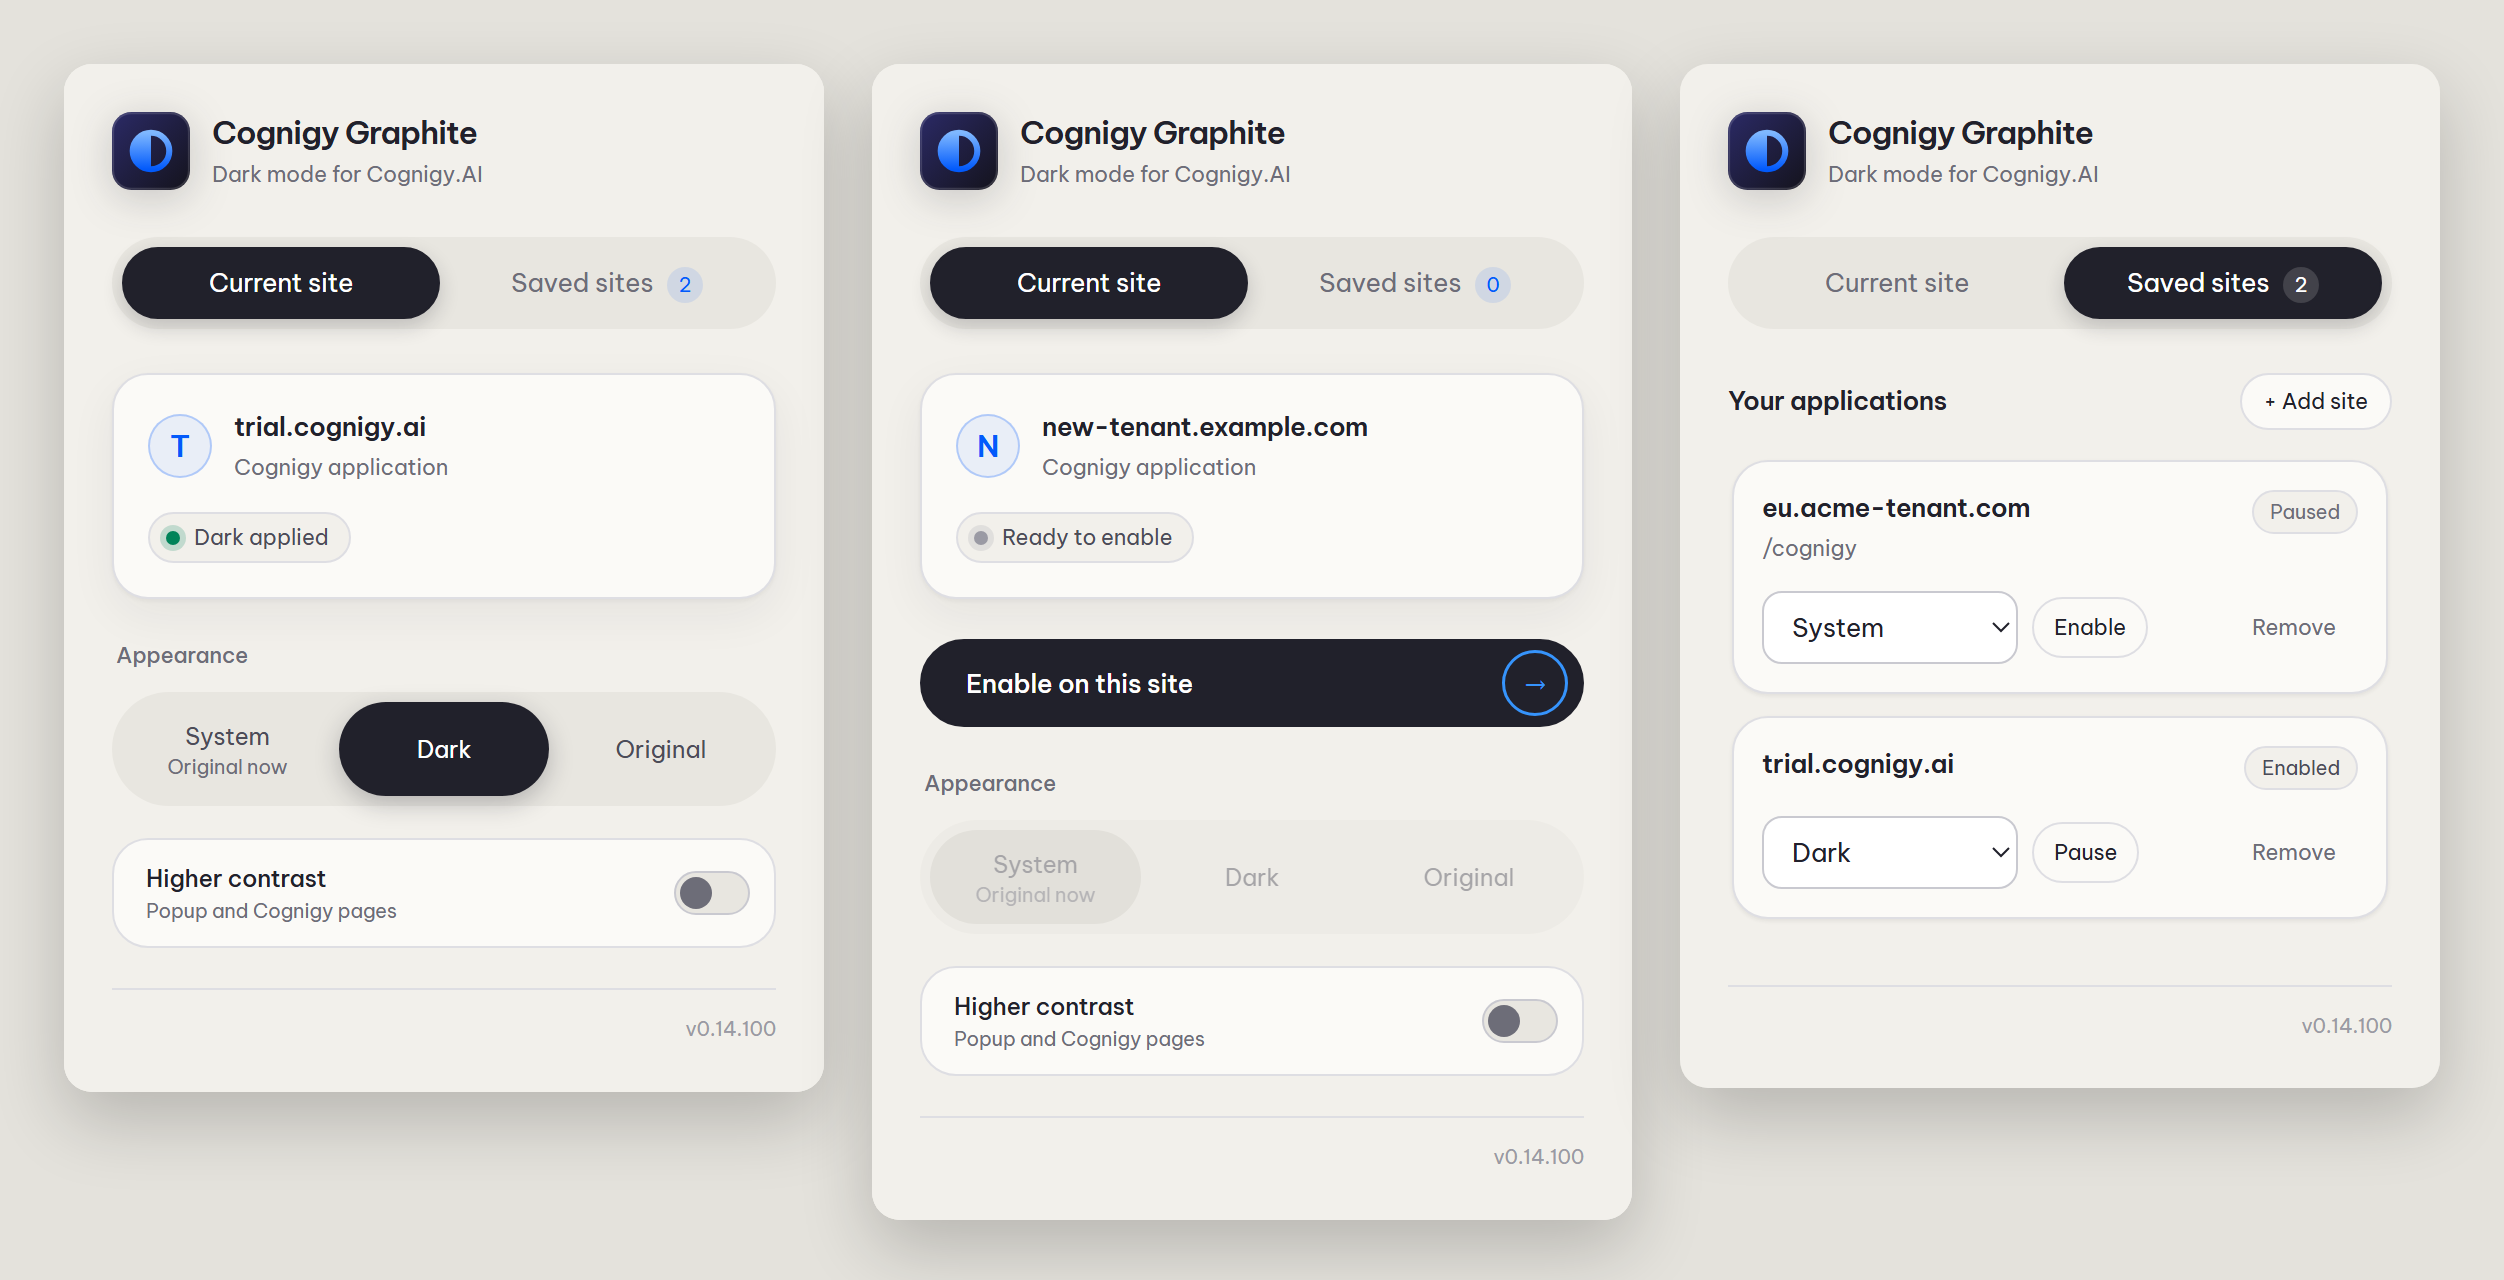
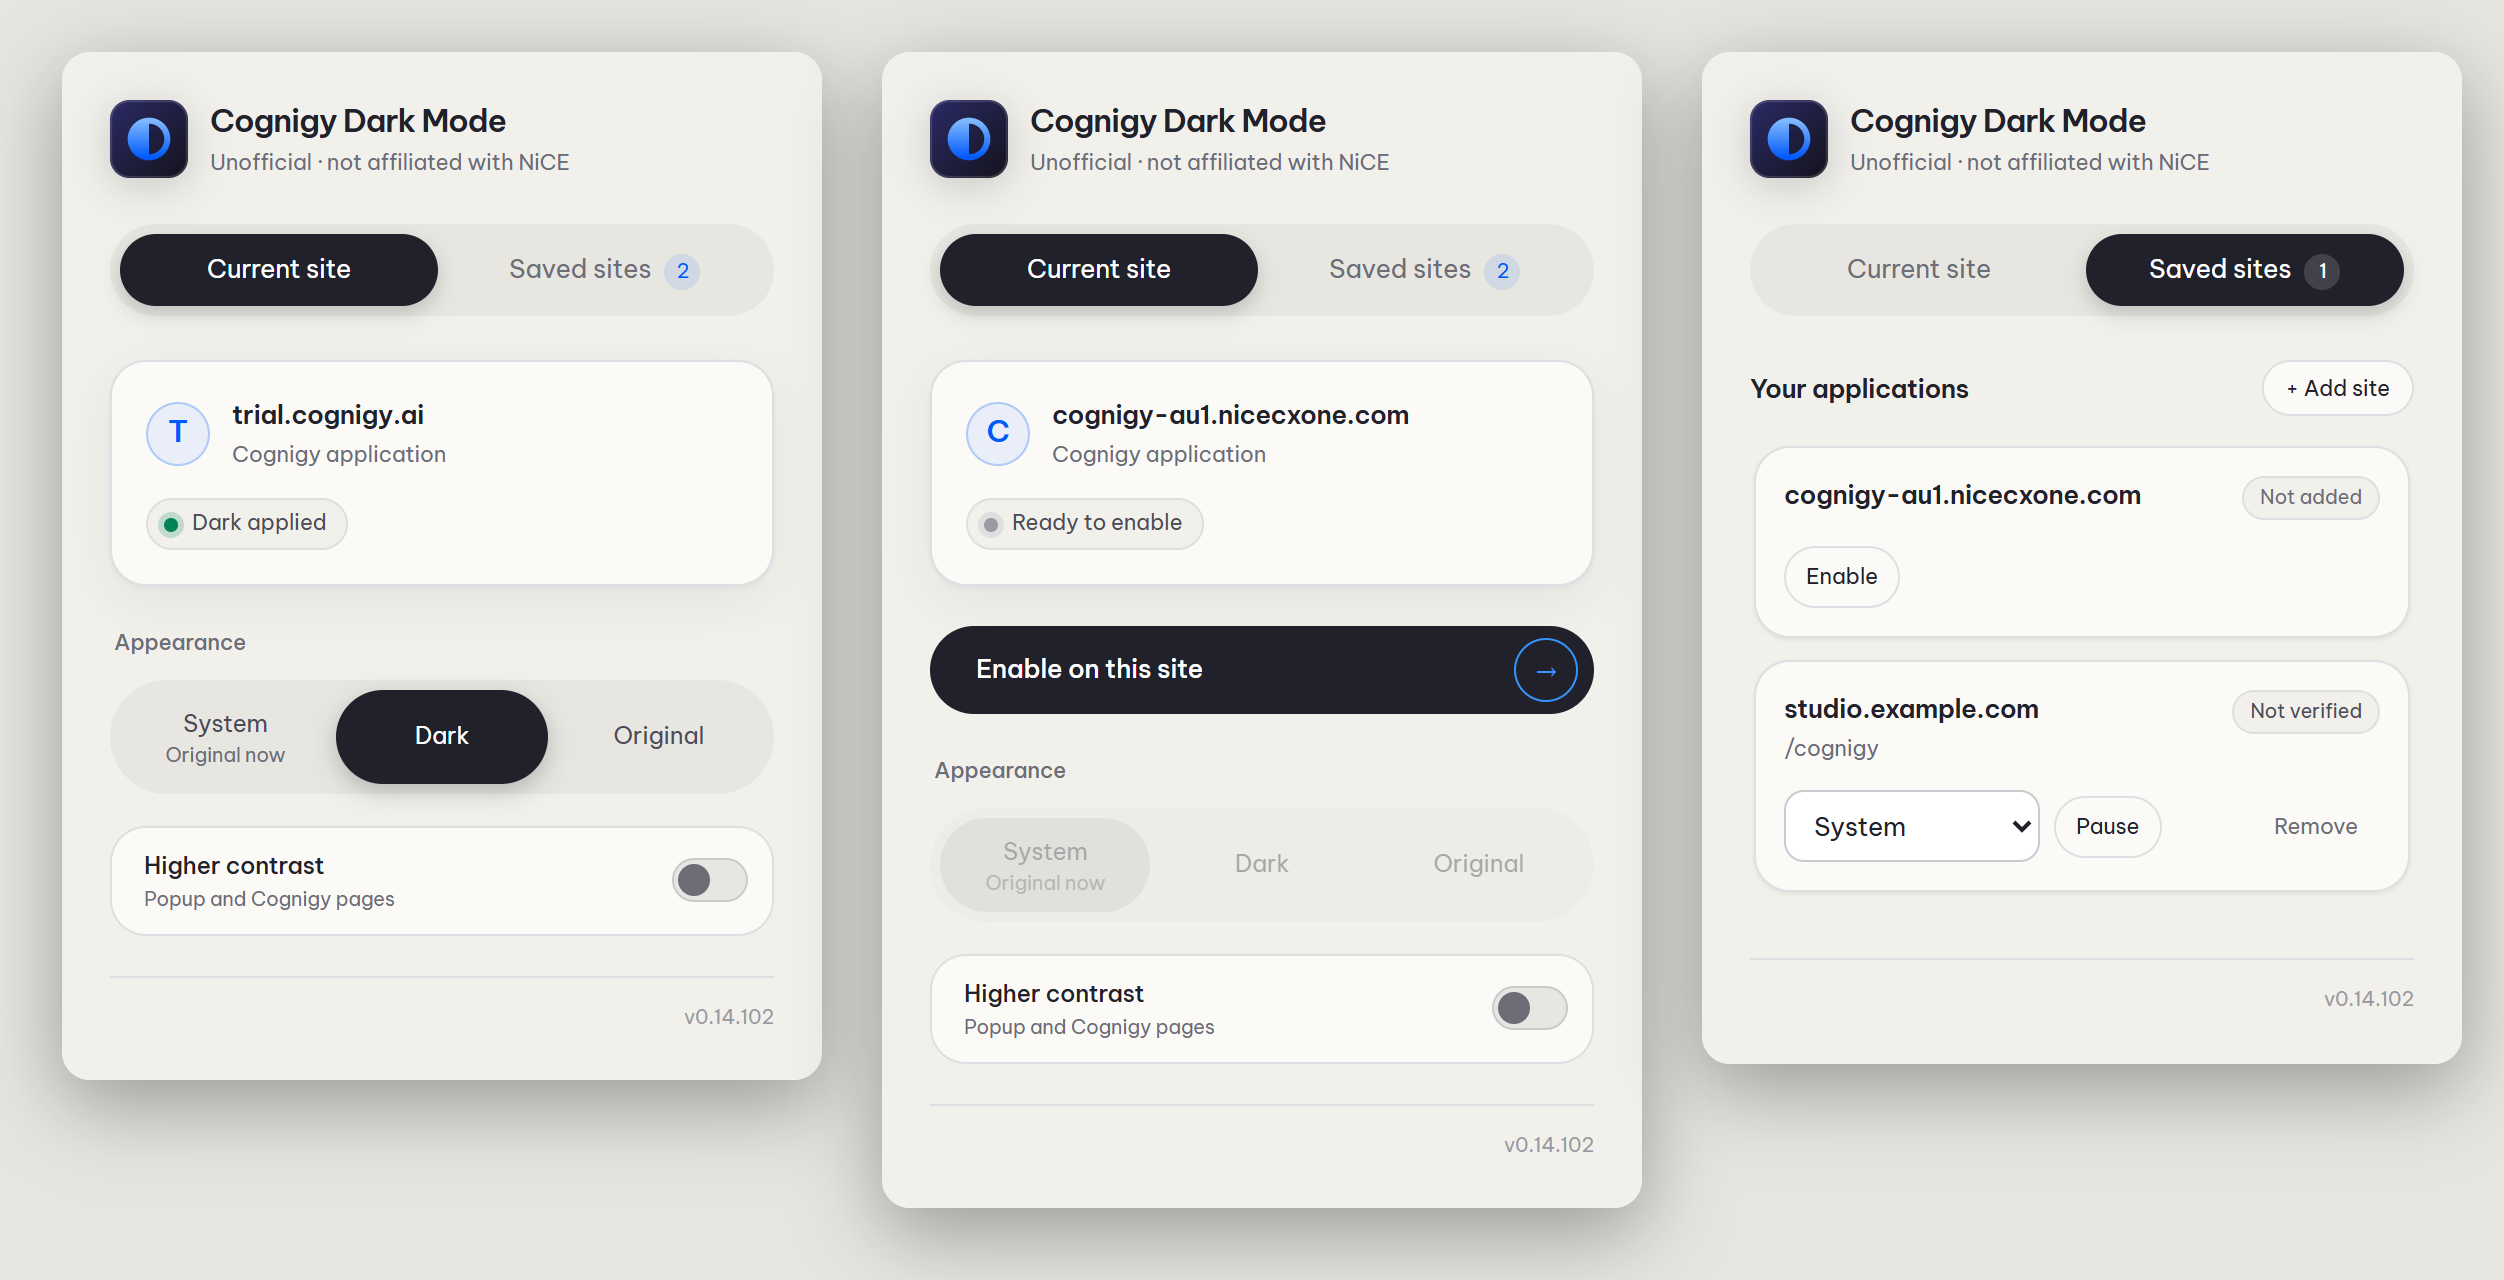
Regenerate popup images with the new name
store-assets.cjs now renders the popup images from the real popup UI with
synthetic fixture sites (trial in Dark, an unsaved cognigy-au1 host, and the
saved list with its Not added card) before building the store graphics.
The site-manager fixture accepts ?host= for the active tab's origin.

diff --git a/tests/browser/site-manager-runtime.js b/tests/browser/site-manager-runtime.js
@@ -7,7 +7,7 @@
   records[0].permission=CogGraphiteFixtureHostPermissions.includes('https://trial.cognigy.ai/*')&&!params.has('withheld');
   if(fresh)records=records.filter(e=>e.origin!=='https://trial.cognigy.ai');
   globalThis.chrome={storage:{onChanged:{addListener:fn=>listeners.push(fn)},local:{async get(keys){return Object.fromEntries((Array.isArray(keys)?keys:[keys]).map(k=>[k,data[k]]));},async set(values){Object.assign(data,values);emit(Object.fromEntries(Object.entries(values).map(([k,v])=>[k,{newValue:v}])));}}},
-    permissions:{async request(){return !deny;}},scripting:{async executeScript(){return [{documentId:'fixture-document',result:{origin:'https://trial.cognigy.ai',path:'/project/local/local/flow/local/chart',recognized:true}}];}},
+    permissions:{async request(){return !deny;}},scripting:{async executeScript(){return [{documentId:'fixture-document',result:{origin:params.get('host')||'https://trial.cognigy.ai',path:'/project/local/local/flow/local/chart',recognized:true}}];}},
     tabs:{async query(){return [{id:1}];},async sendMessage(tab,msg){if(params.has('disconnected'))throw new Error('No receiver');if(msg.type==='CG_ENSURE')return {ok:true};const mode=data['cogDepth.v1.trial']?.mode||'system';return {...CogGraphiteBuild,requestId:msg.requestId,siteId:'trial',savedMode:mode,appliedMode:mode==='native'?'native':'dark',status:mode==='native'?'original':mode==='system'?'system-dark':'partial'};}},
     runtime:{async sendMessage(message){if(message.type==='SYNC_STARTUP')return {ok:true};if(message.type==='SITES_LIST')return {ok:true,sites:structuredClone(records)};
       if(message.type==='SITE_ENABLE')records=[...records.filter(e=>e.origin!==message.origin),{origin:message.origin,basePath:message.basePath,enabled:true,verified:false,permission:true,rev:'fixture-'+Date.now()}];

diff --git a/docs/store/LISTING.md b/docs/store/LISTING.md
@@ -30,7 +30,7 @@ Copy these into the [developer dashboard](https://chrome.google.com/webstore/dev
 
 **Graphics:**
 - **Store icon:** `extension/icons/icon-128.png`.
-- **Screenshots** (1 required, up to 5, 1280×800 PNG or JPEG) and **small promo tile** (440×280, required): run `node scripts/store-assets.cjs`. It writes them to `store-assets/`, which stays out of git.
+- **Screenshots** (1 required, up to 5, 1280×800 PNG or JPEG) and **small promo tile** (440×280, required): run `node scripts/store-assets.cjs`. It renders the popup from the real UI with sample sites, refreshes `docs/images/popup-*.png`, and writes the store graphics to `store-assets/`, which stays out of git.
 - **Real screenshot:** add at least one of a Cognigy screen in Dark mode, from an account with no customer data. A listing with only popup images may be rejected for not showing what the extension does.
 
 ## Privacy practices tab
